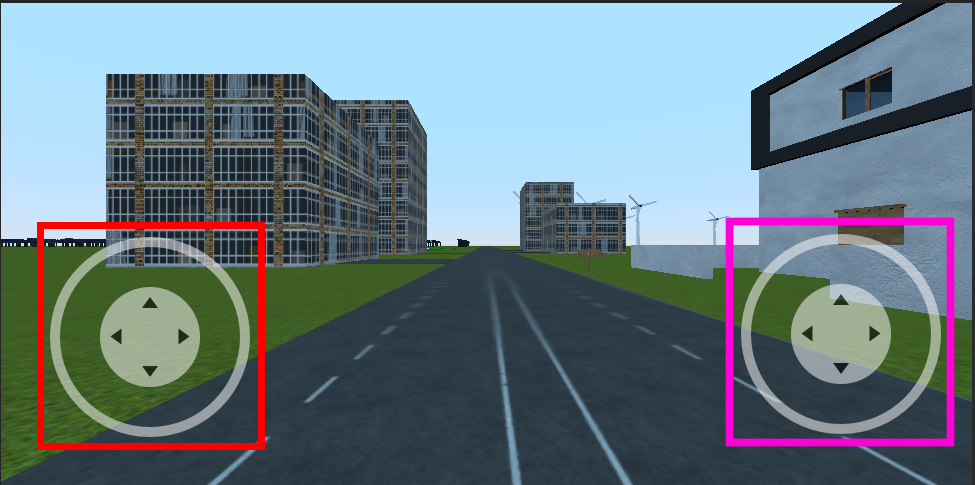
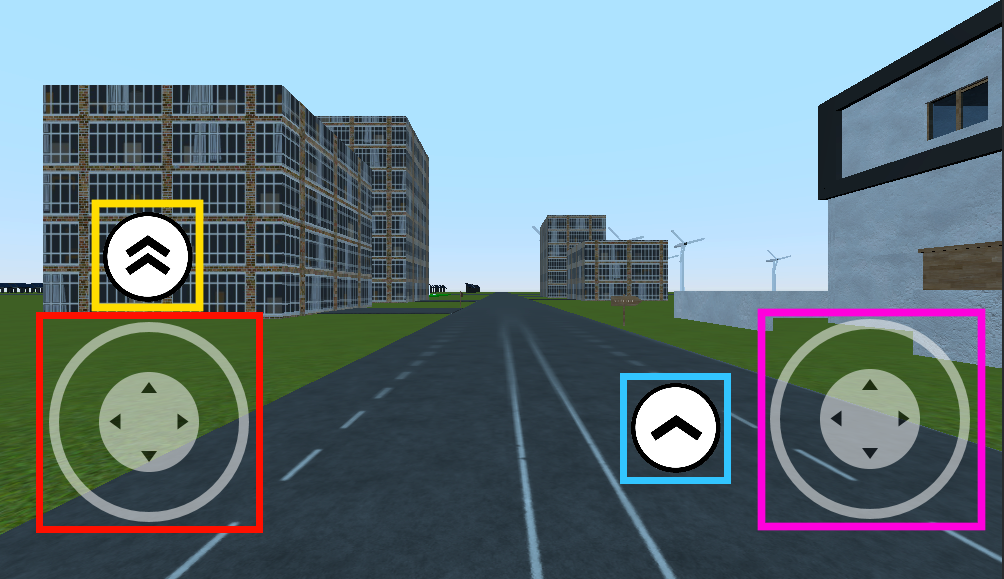
better mobile controls (updated tutorial)

diff --git a/src/components/Tutorial.vue b/src/components/Tutorial.vue
@@ -26,6 +26,8 @@
             <div style="display: flex; justify-content: center; margin-top: 20px" id="1-tuto">
                 <p style="margin-right: 50px;"><strong style="color:red">Red: </strong>movement</p>
                 <p style="margin-right: 50px;"><strong style="color:#FF3DCB">Fuchisa: </strong>camera controls</p>
+                <p style="margin-right: 50px;"><strong style="color:#32BAFF">Blue: </strong>jump</p>
+                <p style="margin-right: 50px;"><strong style="color:#FFCC14">Yellow: </strong>sprint</p>
             </div>
         </div>
     </div>

diff --git a/src/App.vue b/src/App.vue
@@ -85,10 +85,6 @@ import Tutorial from './components/Tutorial.vue'
         </form>
     </dialog>
 </main>
-<noscript>
-    Please enable javascript
-</noscript>
-  
 </template>
 
 <script>

diff --git a/index.html b/index.html
@@ -10,4 +10,8 @@
     <div id="app"></div>
     <script type="module" src="/src/main.js"></script>
   </body>
+
+  <noscript>
+    Please enable javascript
+  </noscript>
 </html>
